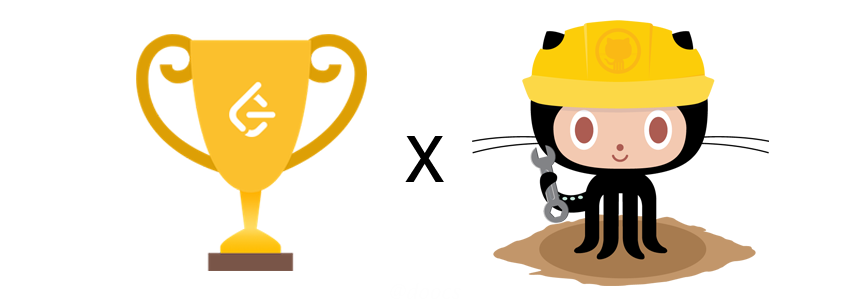
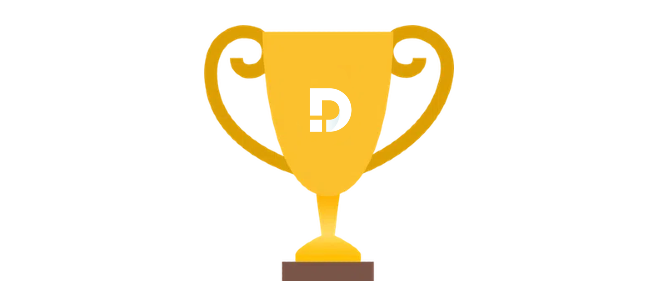
chore: update images

diff --git a/README.md b/README.md
@@ -1,5 +1,5 @@
 <p align="center">
-  <a href="https://github.com/doocs/leetcode"><img src="https://fastly.jsdelivr.net/gh/doocs/leetcode@main/images/leetcode-doocs.png" alt="LeetCode-GitHub-Doocs"></a>
+  <a href="https://github.com/doocs/leetcode"><img src="https://fastly.jsdelivr.net/gh/doocs/leetcode@main/images/doocs-leetcode.png" alt="LeetCode-GitHub-Doocs"></a>
 </p>
 
 <p align="center">
@@ -232,12 +232,6 @@ graph TD;
 <a href="https://opencollective.com/doocs-leetcode/sponsors.svg?width=890" target="_blank"><img src="https://opencollective.com/doocs-leetcode/sponsors.svg?width=890"></a>
 
 > "_You help the developer community practice for interviews, and there is nothing better we could ask for._" -- [Alan Yessenbayev](https://opencollective.com/alan-yessenbayev)
-
-## 推荐者
-
-知名互联网科技博主 [@爱可可-爱生活](https://weibo.com/fly51fly) 微博推荐。
-
-<a href="https://weibo.com/fly51fly" target="_blank"><img src="https://fastly.jsdelivr.net/gh/doocs/leetcode@main/images/recommender-fly51fly.png"></a>
 
 ## 版权
 

diff --git a/README_EN.md b/README_EN.md
@@ -1,5 +1,5 @@
 <p align="center">
-  <a href="https://github.com/doocs/leetcode"><img src="https://fastly.jsdelivr.net/gh/doocs/leetcode@main/images/leetcode-doocs.png" alt="LeetCode-GitHub-Doocs"></a>
+  <a href="https://github.com/doocs/leetcode"><img src="https://fastly.jsdelivr.net/gh/doocs/leetcode@main/images/doocs-leetcode.png" alt="LeetCode-GitHub-Doocs"></a>
 </p>
 
 <p align="center">
